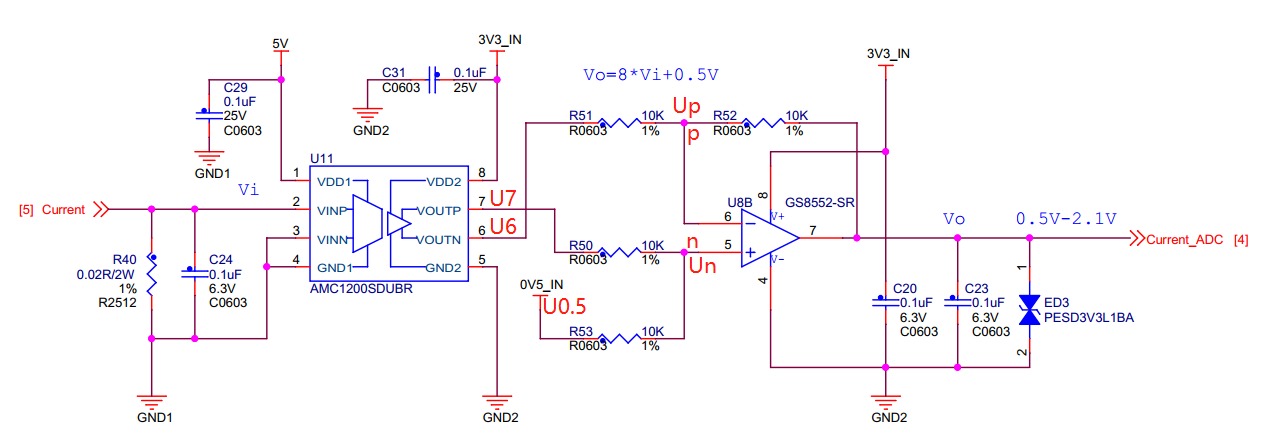
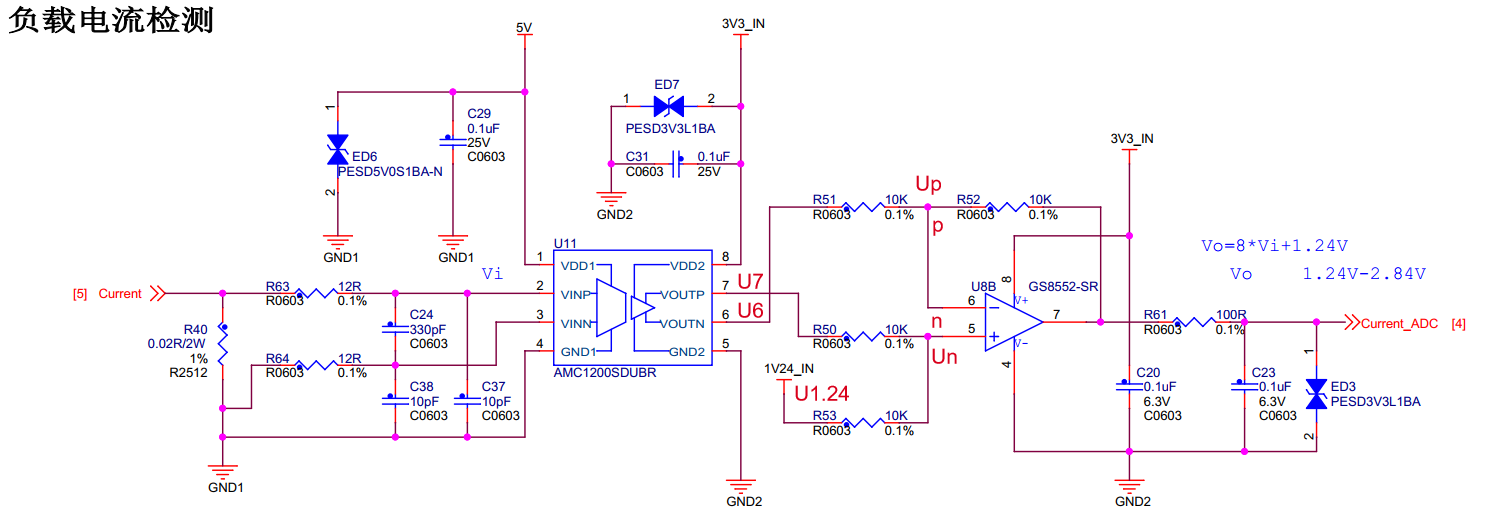
根据有刷新驱动板AD部分修改文档

diff --git a/basis_part/brushed_current_vbus_gather.rst b/basis_part/brushed_current_vbus_gather.rst
@@ -25,6 +25,8 @@ p点和n点没有电流到运放的5脚和6脚，可以得：
    :align: center
    :alt: 差分转单端输出
 
+R61与后面的电容组成RC滤波电路，R61上流过的电流很小，压降也小，可以忽略不计，Vo等于V\ :sub:`current_adc`\。
+
 将（1）式和（2）式整理可得：
 
 .. image:: ../media/有刷电机驱动运放公式3和4.png
@@ -54,7 +56,7 @@ p点和n点没有电流到运放的5脚和6脚，可以得：
 
 
 在下图中使用电压比较器LMV331SE实现10A过流保护电路，电流采样电路中V\ :sub:`i`\经过隔离运放和普通运放后变成V\ :sub:`current_adc`\输入到下图比较器的IN-，
-当IN-的电压超过IN+时比较器的OUT将输出低电平到与门。
+当IN-的电压超过IN+时比较器的OUT将输出低电平到锁存器中,锁存器对输入信号进行锁存并输出到与门。
 
 .. image:: ../media/voltage_comparator.png
    :align: center
@@ -98,8 +100,8 @@ p点和n点没有电流到运放的5脚和6脚，可以得：
 
 如下图所示是电源电压采样电路，在电源电压上并联R18和R19的串联电阻，R19两端的电压作为隔离运放的输入，
 再经过隔离运放放大8倍后差分输出，使用普通运放将差分输出转换成单端输出，连接到STM32的ADC采样通道。
-隔离运放的输入电压为Vi，则有:Vi/R19=POWER/(R18+R19)，带入电阻值可得：Vi=POWER/301，
-通过上一节中电流采样电流的计算方法可以计算得到POWER_ADC=POWER/301*8+0.5。
+隔离运放的输入电压为Vi，则有:Vi/R19=POWER/(R18+R59+R19)，带入电阻值可得：Vi=POWER/37，
+通过上一节中电流采样电流的计算方法可以计算得到POWER_ADC=POWER/37+1.24，不同的是，电压检测部分的隔离运放是没有放大的。
 
 .. image:: ../media/有刷电源电压采集.png
    :align: center
@@ -327,8 +329,8 @@ ADC_Mode_Config()函数
       ADC_Handle.Init.ExternalTrigConvEdge = ADC_EXTERNALTRIGCONVEDGE_NONE;
       //使用软件触发
       ADC_Handle.Init.ExternalTrigConv = ADC_SOFTWARE_START;
-      //数据右对齐	
-      ADC_Handle.Init.DataAlign = ADC_DATAALIGN_RIGHT;
+      //数据左对齐
+      ADC_Handle.Init.DataAlign = ADC_DATAALIGN_LEFT;
       //转换通道 2个
       ADC_Handle.Init.NbrOfConversion = 2;
       //使能连续转换请求
@@ -473,7 +475,7 @@ get_curr_val()函数
 
 在get_curr_val()中，我们对采集得到的原始数据累加的和(adc_mean_sum)除以累加次数(adc_mean_count)来求平均值，进行滤波操作，保证数据的稳定性。然后我们将以前的累加次数清零，为后面采集的数据做重新开始累加、滤波的准备。在实际情况中，每采集10次数据做一次滤波，得到的电流数据比较稳定，但是在程序设定时间内可能无法达到每采集10次做一次滤波操作，所以用户可以根据实际的实际需求来设定采集次数，采集间隔等。
 
-必须注意的是，在硬件设计中，并不是以0v为起始电压而是加了0.5v的偏置，具体看图 差分转单端输出结果_ 中的V\ :sub:`0.5`\。所以我们程序中，使用flag，在开发板上电后电机没有启动时，就先采集17次偏置电压数据(实测中采集17次后的偏执电压较为准确，这个次数和电路达到稳定状态的时间有关)，然后将偏置电压保存起来，这里使用static定义adc_offset。最后在每次获取电流值计算时，都会将偏置电压减去，保证数据是正确的。
+必须注意的是，在硬件设计中，并不是以0v为起始电压而是加了1.24v的偏置，具体看图 差分转单端输出结果_ 中的V\ :sub:`1.24`\。所以我们程序中，使用flag，在开发板上电后电机没有启动时，就先采集17次偏置电压数据(实测中采集17次后的偏执电压较为准确，这个次数和电路达到稳定状态的时间有关)，然后将偏置电压保存起来，这里使用static定义adc_offset。最后在每次获取电流值计算时，都会将偏置电压减去，保证数据是正确的。
 
 在得到有效的电流转换电压的采集值后，我们对该电压值进行转换操作，将其转换回电流，调用GET_ADC_CURR_VAL。
 
@@ -483,7 +485,7 @@ get_curr_val()函数
    :linenos:
 
    #define VREF                            3.3f     // 参考电压，理论上是3.3，可通过实际测量得3.258
-   #define GET_ADC_VDC_VAL(val)            ((float)val/(float)4096.0*VREF)          // 得到电压值
+   #define GET_ADC_VDC_VAL(val)            ((float)val/(float)65536.0*VREF)          // 得到电压值
    #define GET_ADC_CURR_VAL(val)           (((float)val)/(float)8.0/(float)0.02*(float)1000.0)          // 得到电流值，电压放大8倍，0.02是采样电阻，单位mA。
 
 只是简单宏定义即可实现。
